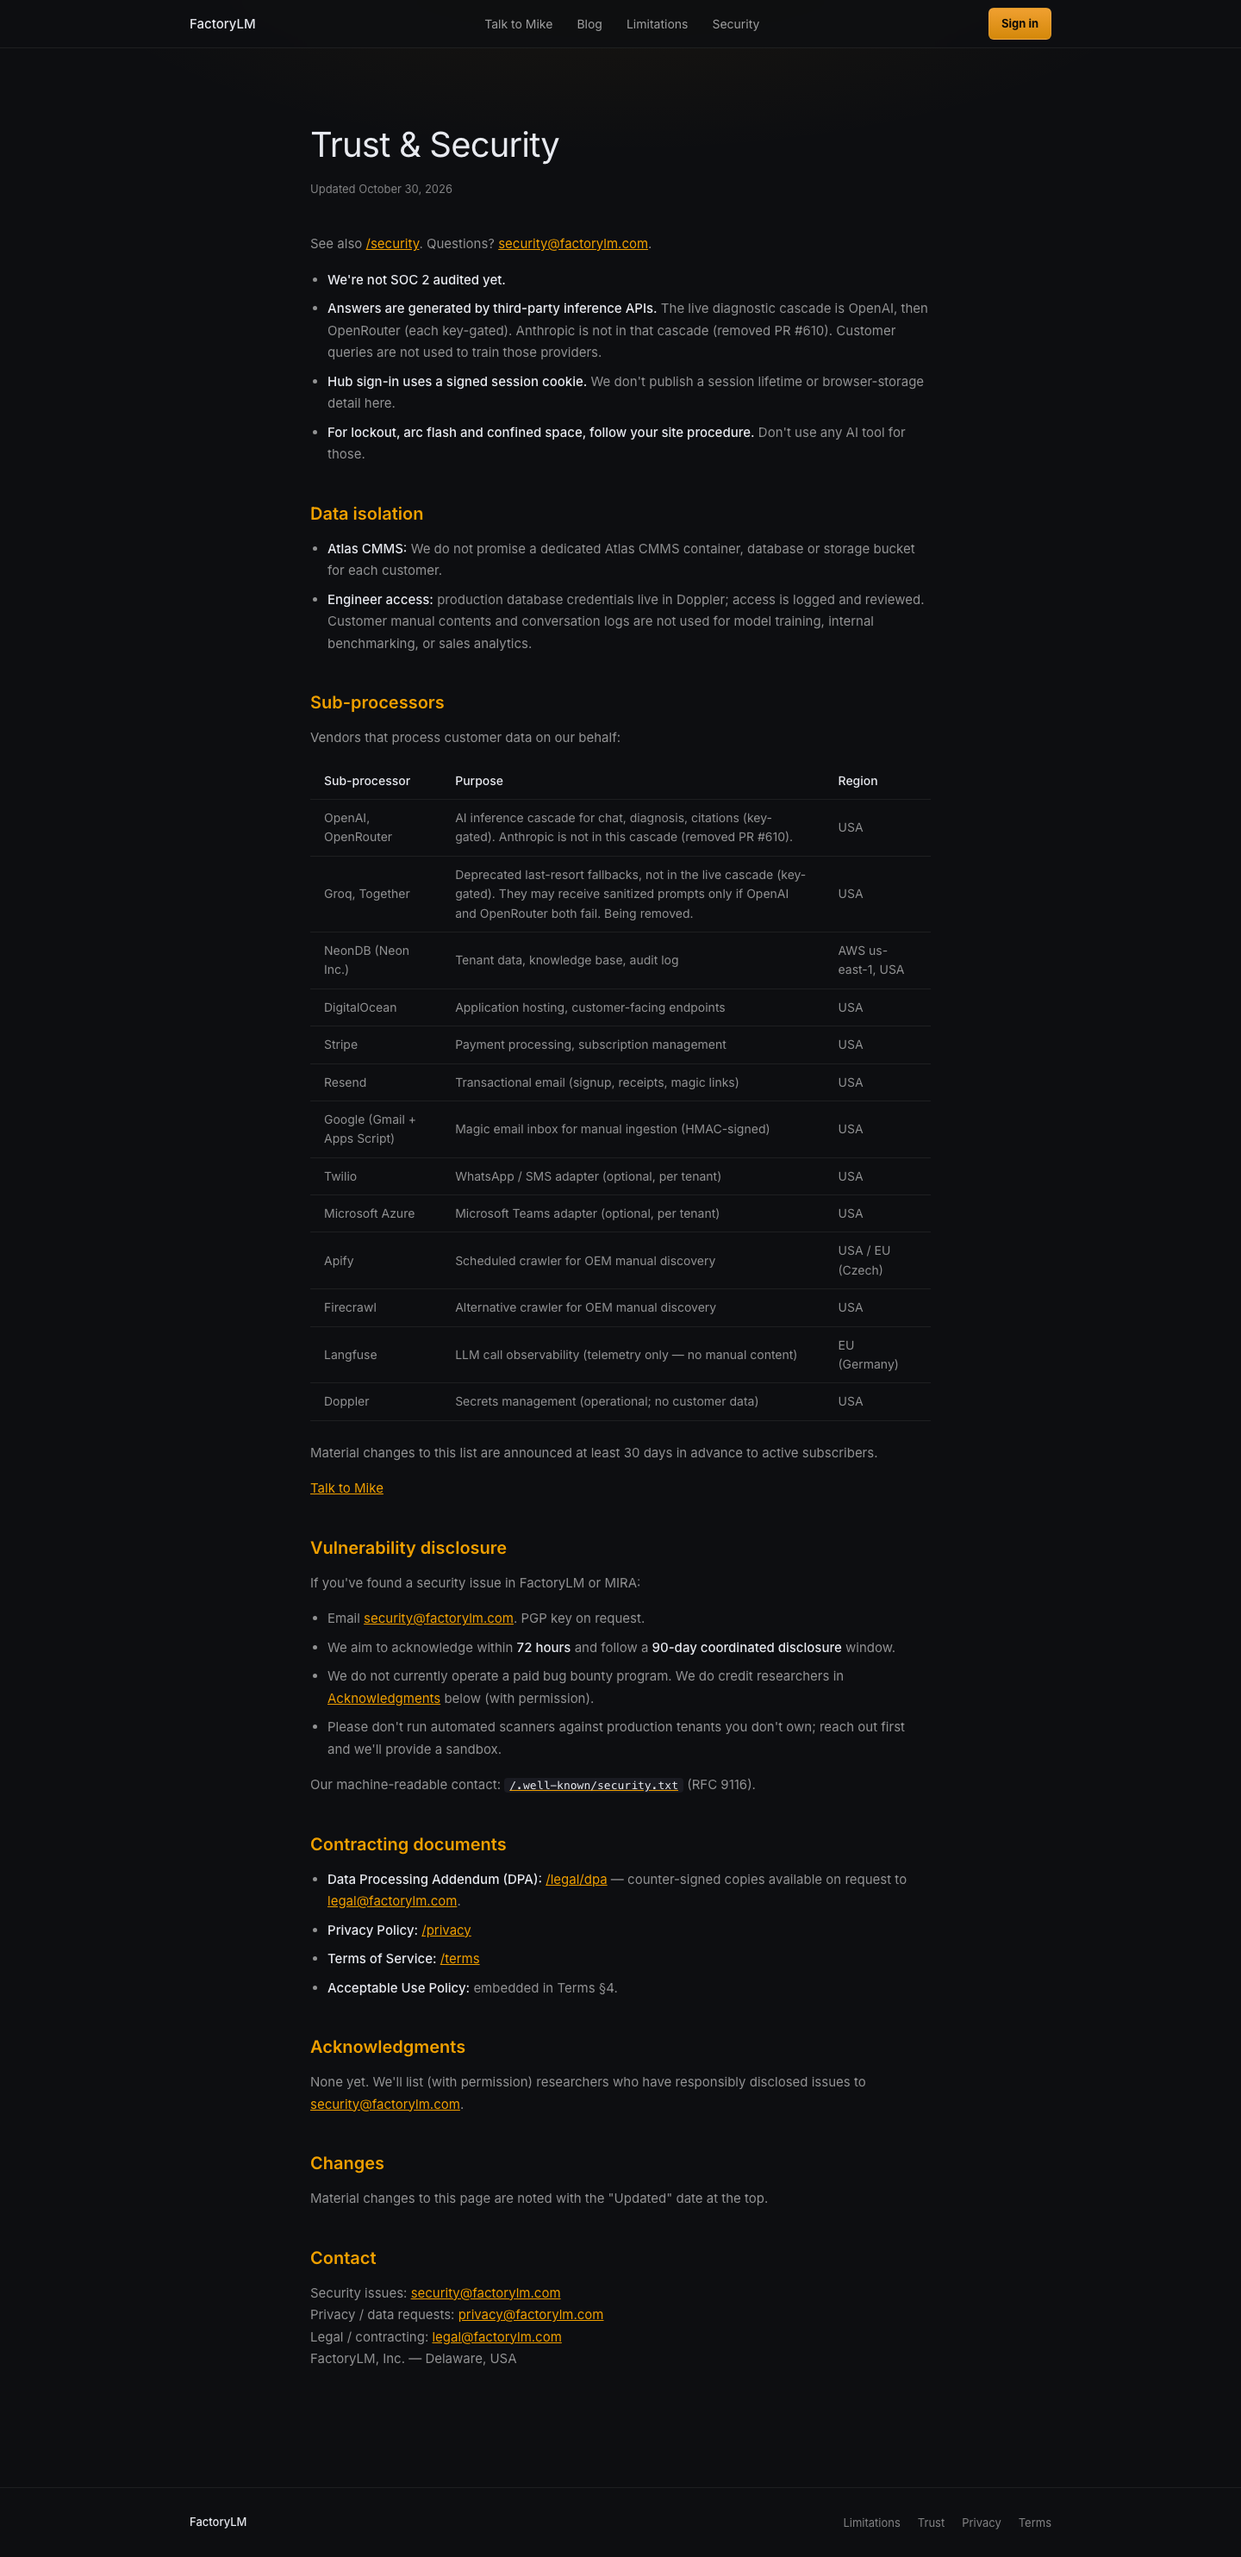
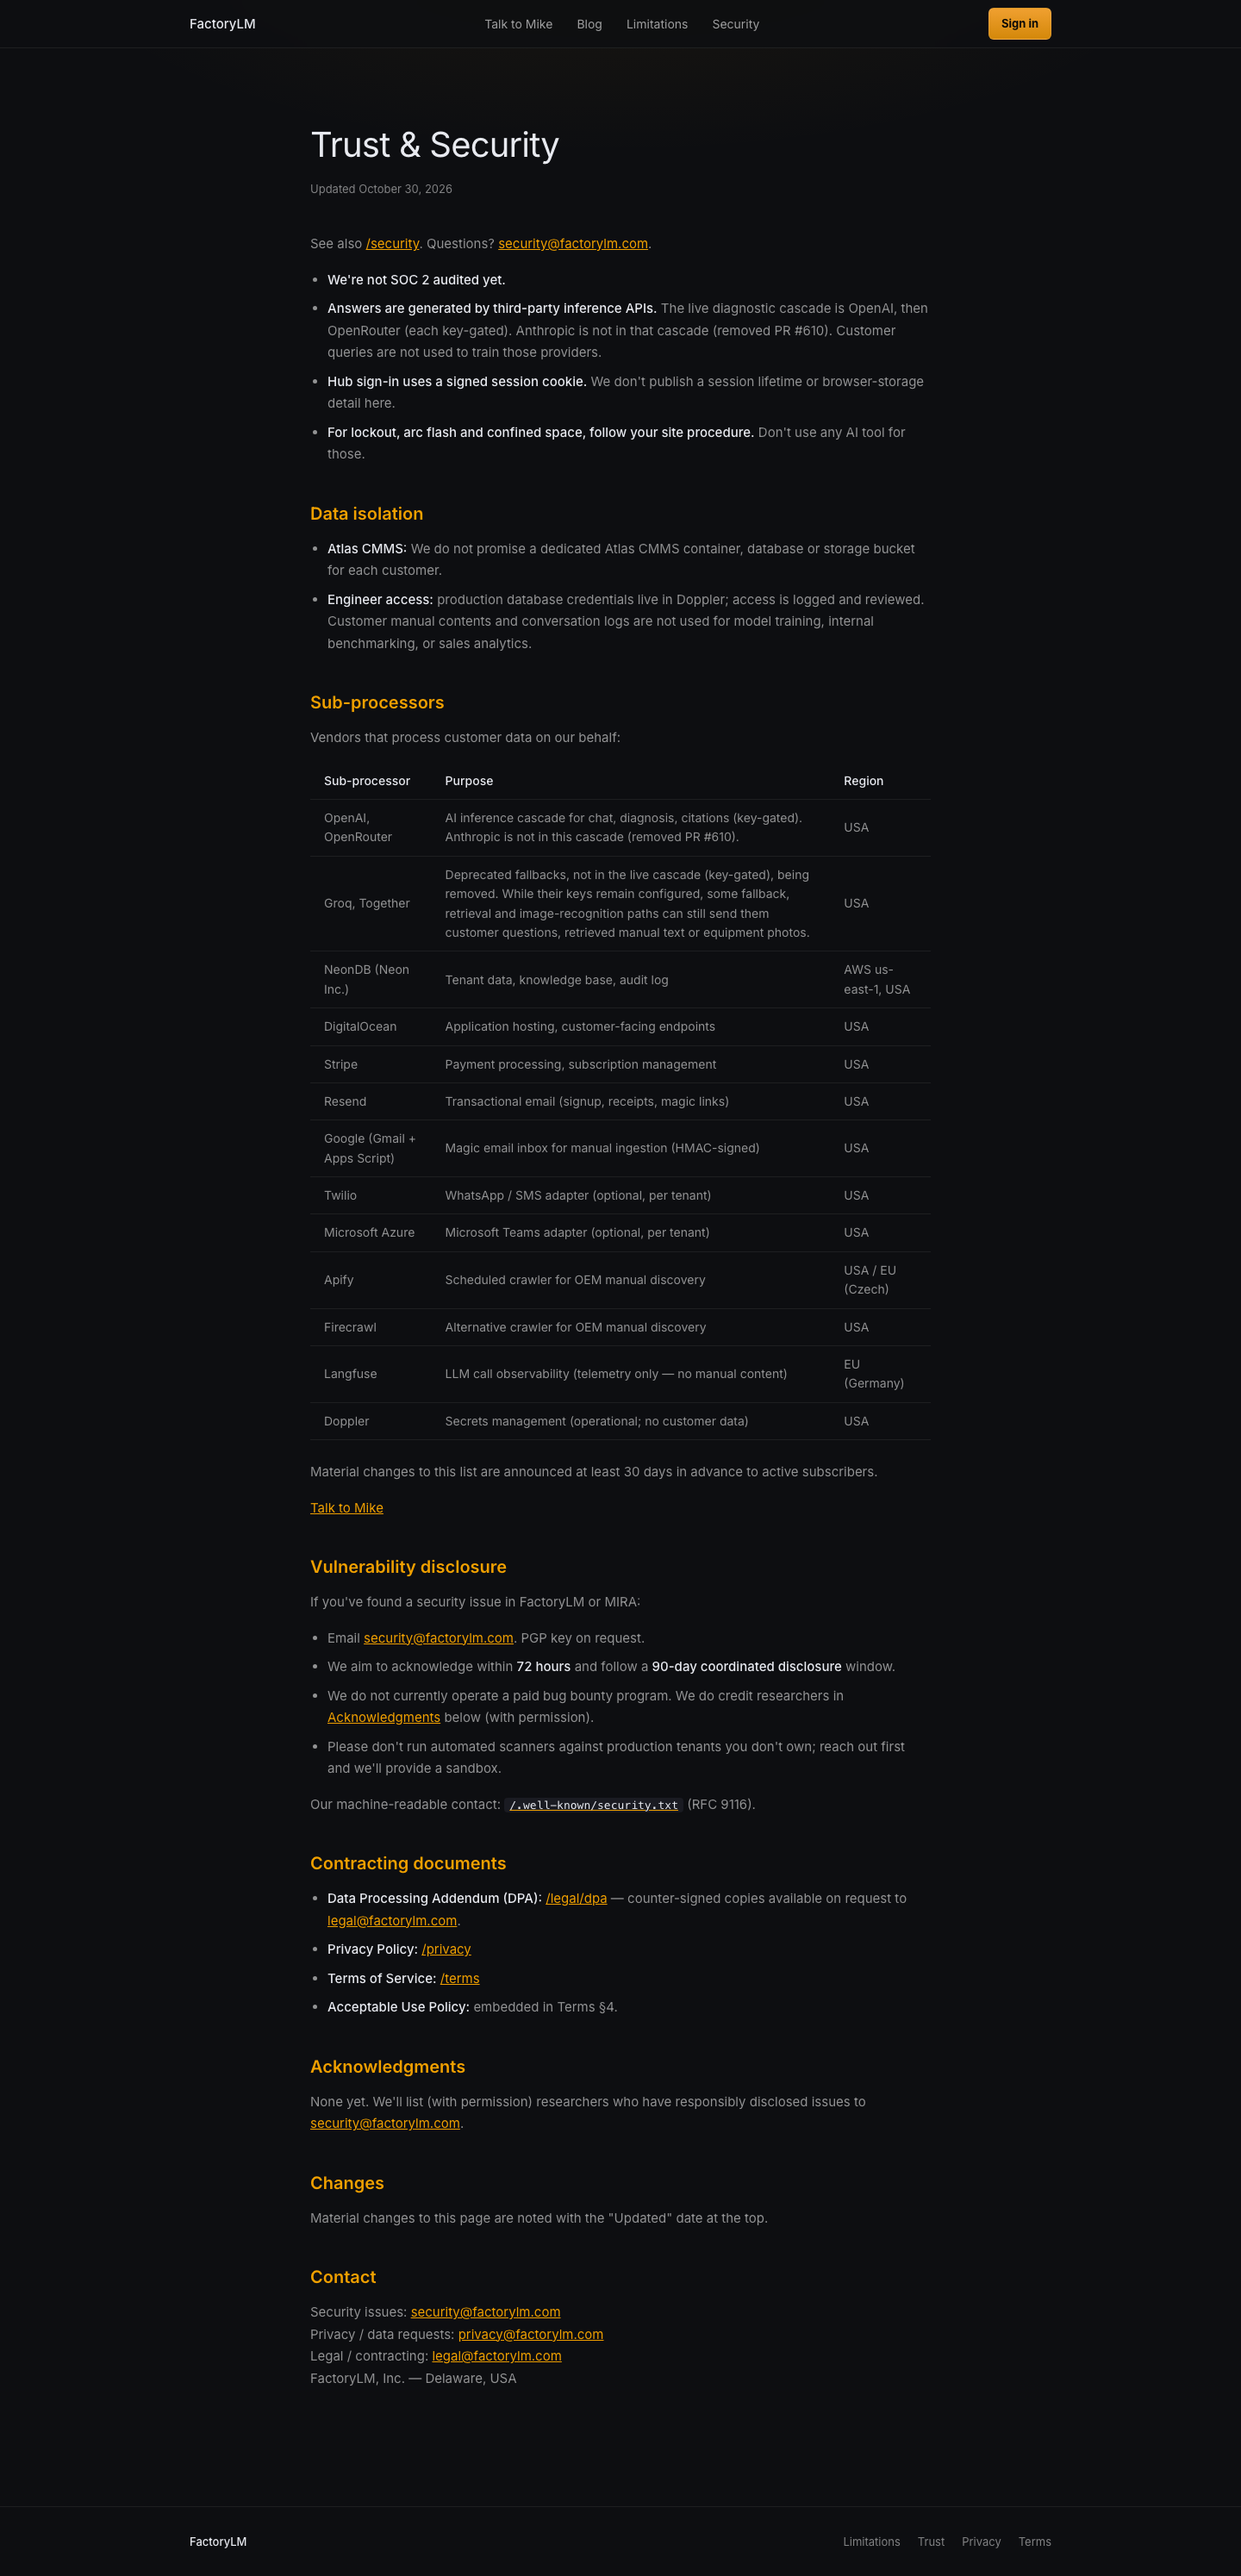
fix(web): /trust Groq/Together row states real data categories, no unsupported qualifiers (#5008 Codex r2 F1)
Drops "sanitized" and "only if OpenAI and OpenRouter both fail". There are direct Groq retrieval
calls and a direct Together vision path, and Hub chat messages are not PII-sanitized. The row now
says questions, retrieved manual text and equipment photos can reach them while keys remain.

Claude-Session: https://claude.ai/code/session_01QHPC3jNTCNuZN4BwUacdei

diff --git a/mira-web/src/views/__tests__/honest-claims.test.ts b/mira-web/src/views/__tests__/honest-claims.test.ts
@@ -686,6 +686,13 @@ describe("/trust names only the live OpenAI→OpenRouter cascade (#5005)", () =>
       expect(disclosed.length, `${p} must be disclosed while its key can reach the router`).toBe(1);
       expect(disclosed[0]).toMatch(/deprecated/i);
       expect(disclosed[0]).toMatch(/fallback/i);
+      // #5008 Codex r2 F1: direct Groq retrieval/classifier calls and a direct Together
+      // vision path exist, and Hub chat messages are not PII-sanitized, so the row may not
+      // promise "sanitized" data or an "only if OpenAI and OpenRouter fail" condition.
+      expect(disclosed[0]).not.toMatch(/sanitiz|only if/i);
+      for (const category of [/questions/i, /manual text/i, /photos/i]) {
+        expect(disclosed[0]).toMatch(category);
+      }
     }
   });
 

diff --git a/mira-web/public/trust.html b/mira-web/public/trust.html
@@ -168,7 +168,7 @@
             </tr>
             <tr>
               <td>Groq, Together</td>
-              <td>Deprecated last-resort fallbacks, not in the live cascade (key-gated). They may receive sanitized prompts only if OpenAI and OpenRouter both fail. Being removed.</td>
+              <td>Deprecated fallbacks, not in the live cascade (key-gated), being removed. While their keys remain configured, some fallback, retrieval and image-recognition paths can still send them customer questions, retrieved manual text or equipment photos.</td>
               <td>USA</td>
             </tr>
             <tr>
